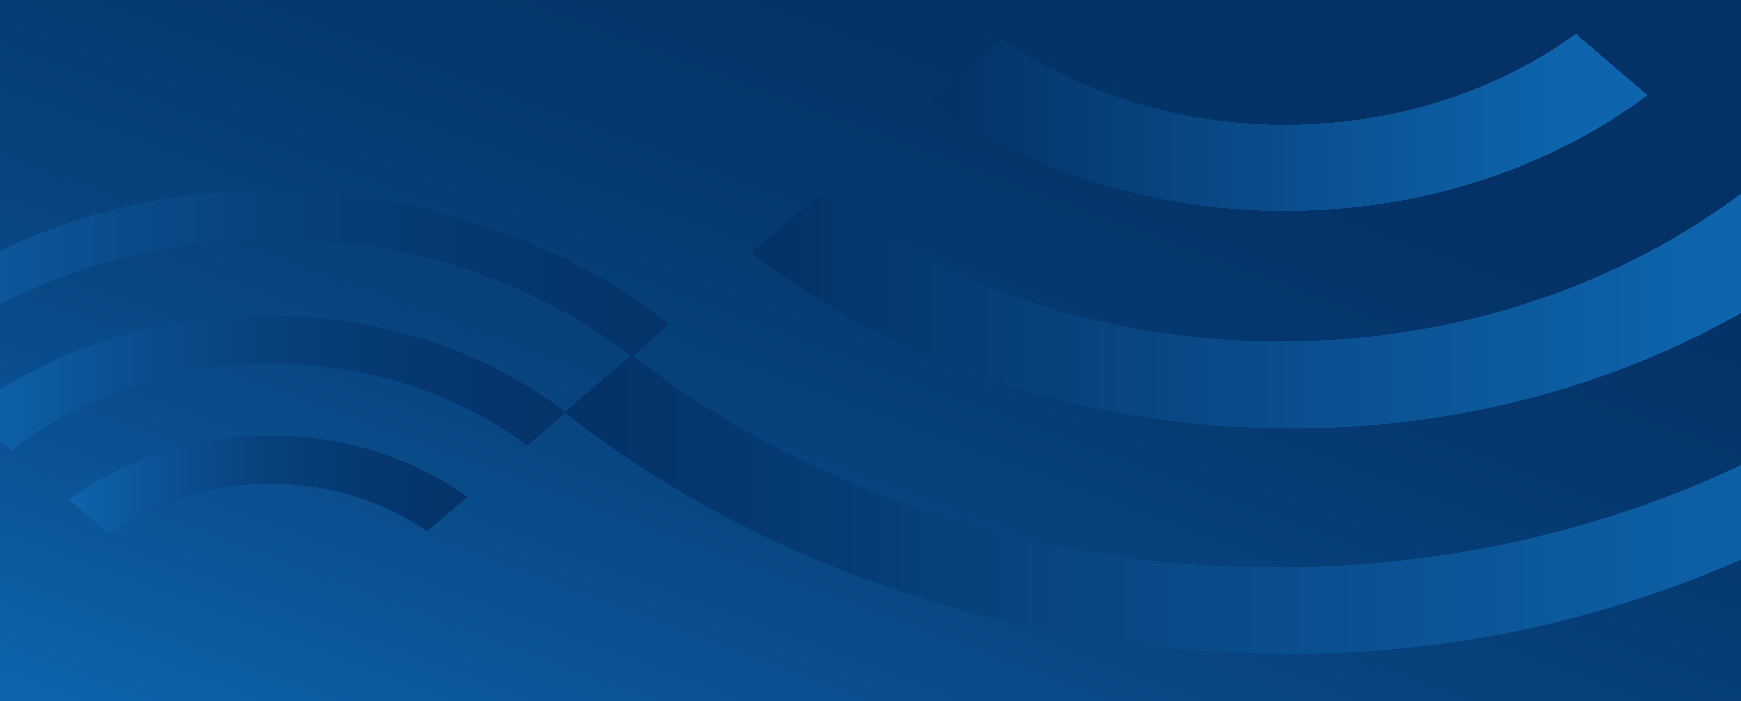
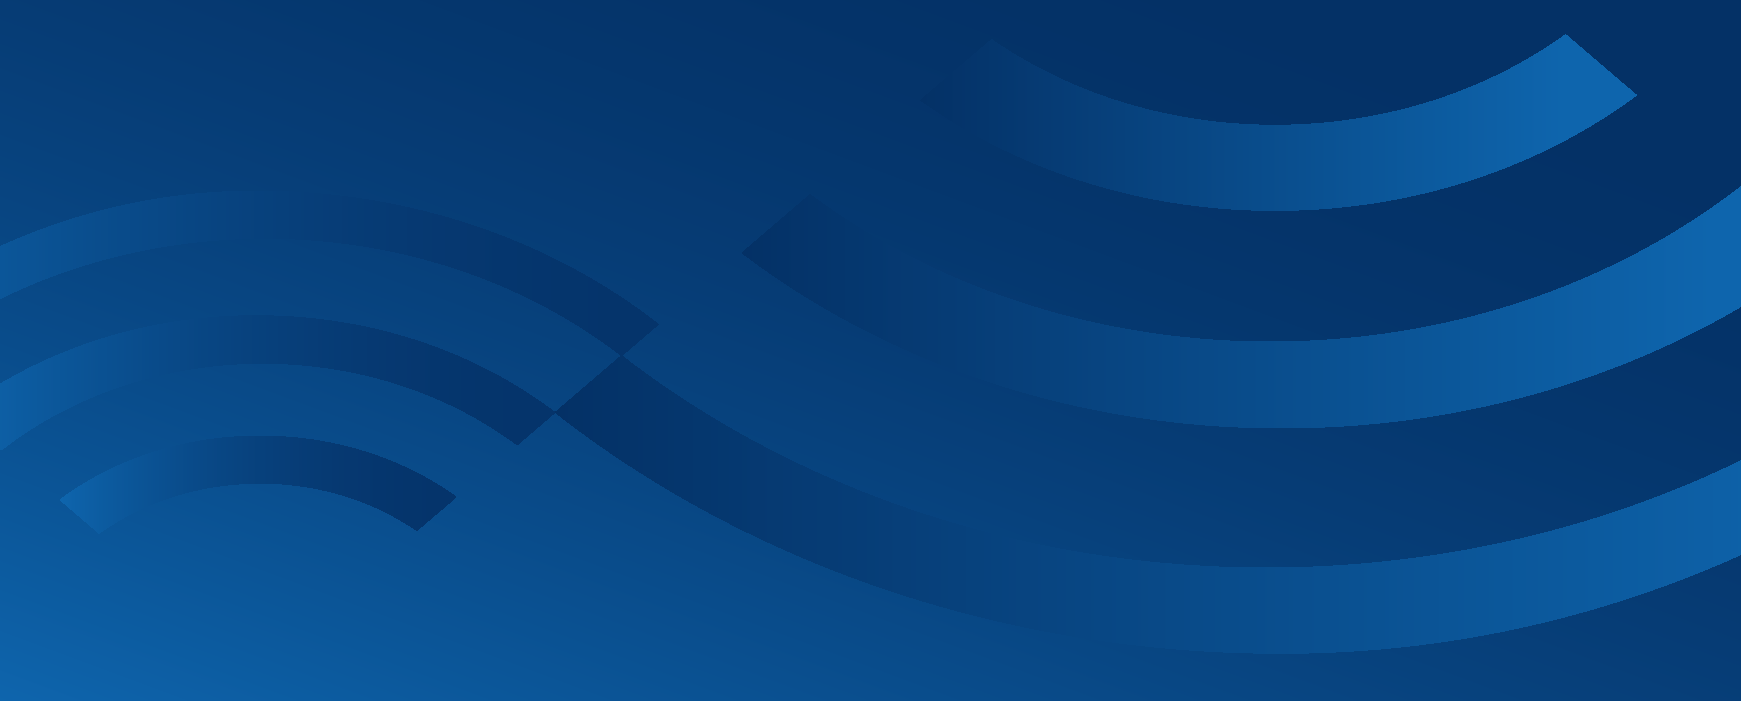
capas finalizadas
apenas mudar para svg ou testar com granulado

diff --git a/scss/index.scss b/scss/index.scss
@@ -26,7 +26,7 @@ section {
   background-position: center;
   background-repeat: no-repeat;
   background-size: cover;
-  background-image: url(../img/capa.png);
+  background-image: url(../img/capa2.png);
   width: 100%;
   height: 25vh;
 

diff --git a/index.php b/index.php
@@ -89,7 +89,7 @@ $autorLivro = "Mauro Pantoja";
     </section>
 
 
-    <section id="authors">
+    <!-- <section id="authors">
       <div class="container container-content">
         <h2>Quem escreveu:</h2>
 
@@ -111,7 +111,7 @@ $autorLivro = "Mauro Pantoja";
 
         </ul>
       </div>
-    </section>
+    </section> -->
 
    
 

diff --git a/cap1.php b/cap1.php
@@ -1,7 +1,7 @@
 <?php 
 $capitulo = "Capítulo 1";
 $titulo = "Introdução";
-$abertura = "(img/capa2.png)";
+$abertura = "(img/capa6.png)";
 include("components/page-header.php"); 
 ?>
 <h2 id="intertitulo-1-1">1.1 A Superintendência de Educação a Distância - SEAD</h2>

diff --git a/cap2.php b/cap2.php
@@ -1,7 +1,7 @@
 <?php 
 $capitulo = "Capítulo 2";
 $titulo = "Perfil Institucional da SEAD";
-$abertura = "(img/capa3.png)";
+$abertura = "(img/capa7.png)";
 include("components/page-header.php"); 
 ?>
 <h2 id="intertitulo-2-1">2.1. Organização Administrativa</h2>

diff --git a/apresentacao.php b/apresentacao.php
@@ -1,7 +1,7 @@
 <?php 
 $capitulo = ""; 
 $titulo = "Apresentação"; 
-$abertura = "(img/abertura-global.png)";
+$abertura = "(img/capa3.png)";
 include("components/page-header.php");
 ?>
 
